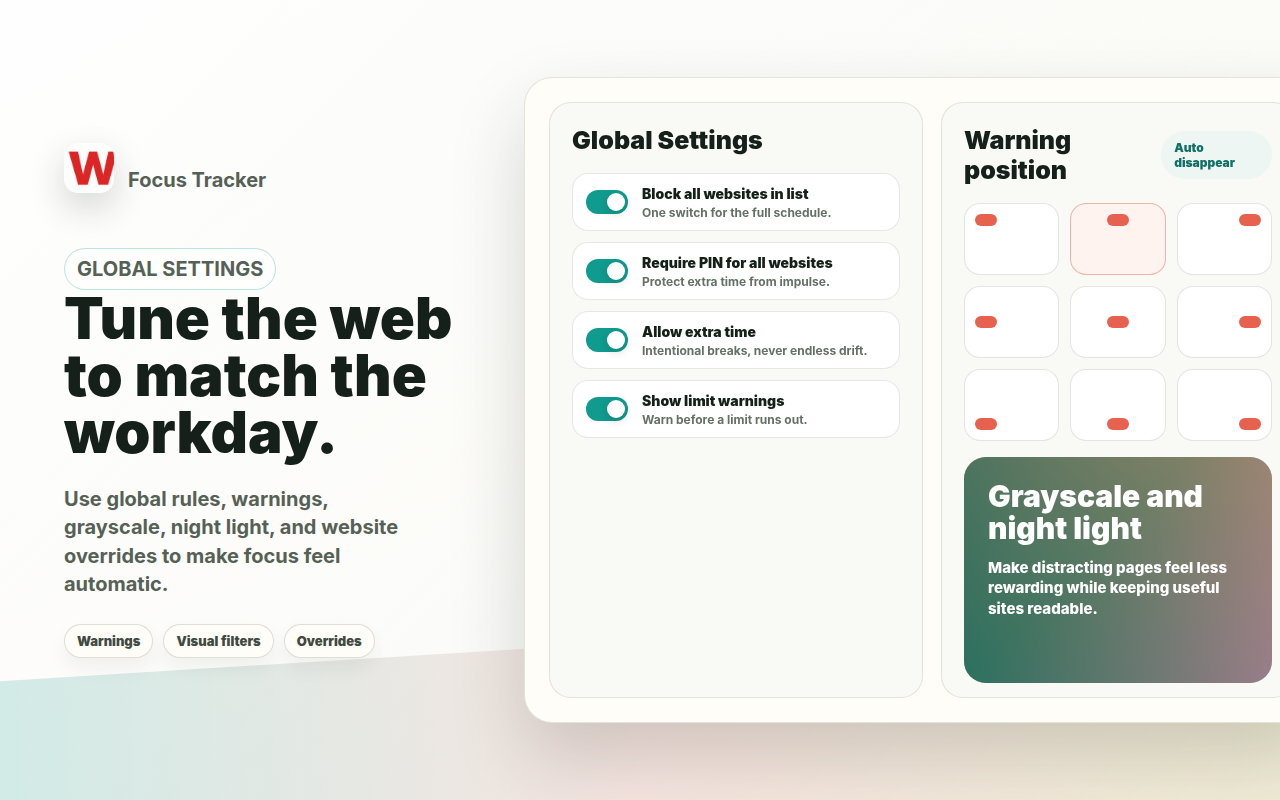
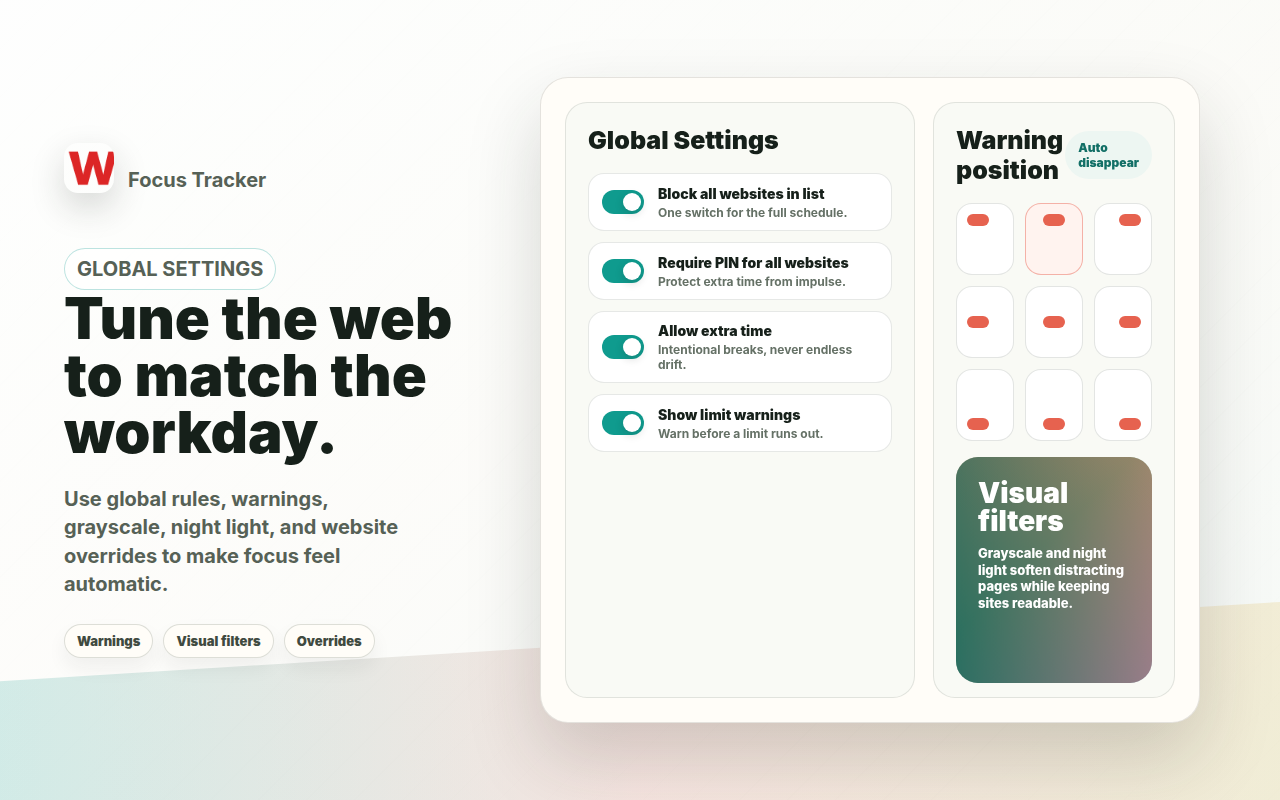
Polish presentation screenshots

diff --git a/presentation/store-assets.html b/presentation/store-assets.html
@@ -166,7 +166,8 @@
 
       .showcase {
         align-self: center;
-        justify-self: stretch;
+        justify-self: center;
+        width: min(100%, 660px);
       }
 
       .browser-frame,
@@ -240,15 +241,16 @@
       }
 
       .article h2 {
-        width: 330px;
+        width: 204px;
         margin: 0 0 18px;
         color: #2d332e;
-        font-size: 33px;
+        font-size: 29px;
         font-weight: 950;
-        line-height: 1.03;
+        line-height: 1.04;
       }
 
       .article-line {
+        width: 204px;
         height: 12px;
         margin: 13px 0;
         border-radius: 999px;
@@ -256,15 +258,15 @@
       }
 
       .article-line.short {
-        width: 62%;
+        width: 136px;
       }
 
       .article-line.mid {
-        width: 78%;
+        width: 174px;
       }
 
       .hero-tile {
-        width: 310px;
+        width: 204px;
         height: 164px;
         margin-top: 28px;
         border-radius: 16px;
@@ -992,7 +994,7 @@
       .focus-scene,
       .settings-scene {
         display: grid;
-        grid-template-columns: 1fr 342px;
+        grid-template-columns: 282px 1fr;
         gap: 18px;
         height: 646px;
         padding: 24px;
@@ -1090,7 +1092,7 @@
       }
 
       .settings-scene {
-        grid-template-columns: 374px 1fr;
+        grid-template-columns: 350px 1fr;
       }
 
       .toggle-list {
@@ -1201,25 +1203,25 @@
 
       .filter-preview-inner {
         height: 100%;
-        padding: 24px;
+        padding: 22px;
         color: white;
         background: linear-gradient(90deg, rgba(18, 111, 102, 0.52), rgba(230, 98, 79, 0.42));
       }
 
       .filter-preview-inner strong {
         display: block;
-        font-size: 30px;
+        font-size: 28px;
         font-weight: 950;
-        line-height: 1.06;
+        line-height: 1;
       }
 
       .filter-preview-inner span {
         display: block;
-        width: 260px;
-        margin-top: 13px;
-        font-size: 15px;
+        width: auto;
+        margin-top: 10px;
+        font-size: 13px;
         font-weight: 850;
-        line-height: 1.38;
+        line-height: 1.28;
       }
 
       .promo-inner {
@@ -1261,9 +1263,9 @@
       }
 
       .promo-small .promo-title {
-        max-width: 278px;
+        max-width: 270px;
         margin-top: 22px;
-        font-size: 31px;
+        font-size: 30px;
         line-height: 1.02;
       }
 
@@ -1277,7 +1279,7 @@
       }
 
       .promo-small .promo-caption {
-        max-width: 296px;
+        max-width: 250px;
         margin-top: 12px;
         font-size: 13px;
         line-height: 1.28;
@@ -1353,12 +1355,33 @@
 
       .promo-small .mini-signal {
         position: absolute;
-        top: 178px;
-        right: 24px;
-        width: 116px;
-        height: 34px;
-        padding: 7px;
-        border-radius: 14px;
+        top: 194px;
+        right: 20px;
+        width: 124px;
+        height: 46px;
+        gap: 6px;
+        padding: 9px;
+        border-radius: 16px;
+      }
+
+      .promo-small .mini-signal span {
+        min-height: 7px;
+      }
+
+      .promo-small .mini-signal span:nth-child(2) {
+        height: 25px;
+      }
+
+      .promo-small .mini-signal span:nth-child(3) {
+        height: 16px;
+      }
+
+      .promo-small .mini-signal span:nth-child(4) {
+        height: 29px;
+      }
+
+      .promo-small .mini-signal span:nth-child(5) {
+        height: 22px;
       }
     </style>
   </head>
@@ -1410,7 +1433,7 @@
           </div>
           <div class="browser-body">
             <article class="article">
-              <h2>A quiet browser day, protected by rules you chose.</h2>
+              <h2>github.com stays open for work.</h2>
               <div class="article-line"></div>
               <div class="article-line mid"></div>
               <div class="article-line short"></div>
@@ -1438,7 +1461,7 @@
           </div>
           <div class="browser-body">
             <article class="article">
-              <h2>Temporary access stays visible until you revoke it.</h2>
+              <h2>reddit.com blocks again when time is revoked.</h2>
               <div class="article-line"></div>
               <div class="article-line mid"></div>
               <div class="article-line short"></div>
@@ -1595,7 +1618,7 @@
               <div class="warning-cell"><i></i></div><div class="warning-cell"><i></i></div><div class="warning-cell"><i></i></div>
               <div class="warning-cell"><i></i></div><div class="warning-cell"><i></i></div><div class="warning-cell"><i></i></div>
             </div>
-            <div class="filter-preview"><div class="filter-preview-inner"><strong>Grayscale and night light</strong><span>Make distracting pages feel less rewarding while keeping useful sites readable.</span></div></div>
+            <div class="filter-preview"><div class="filter-preview-inner"><strong>Visual filters</strong><span>Grayscale and night light soften distracting pages while keeping sites readable.</span></div></div>
           </section>
         </div>
       `;
